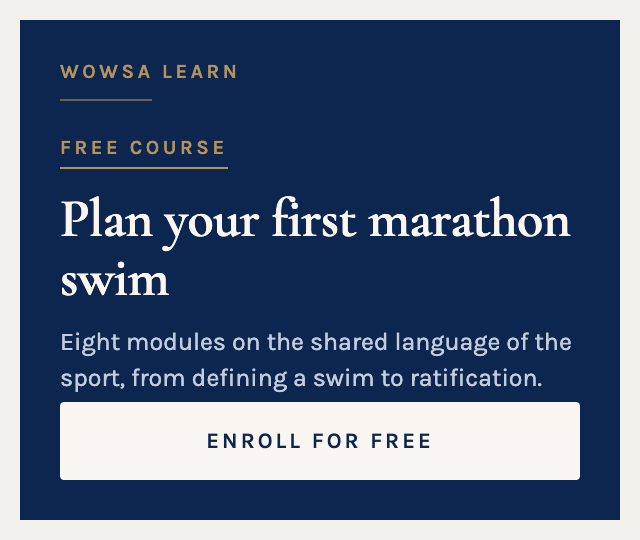
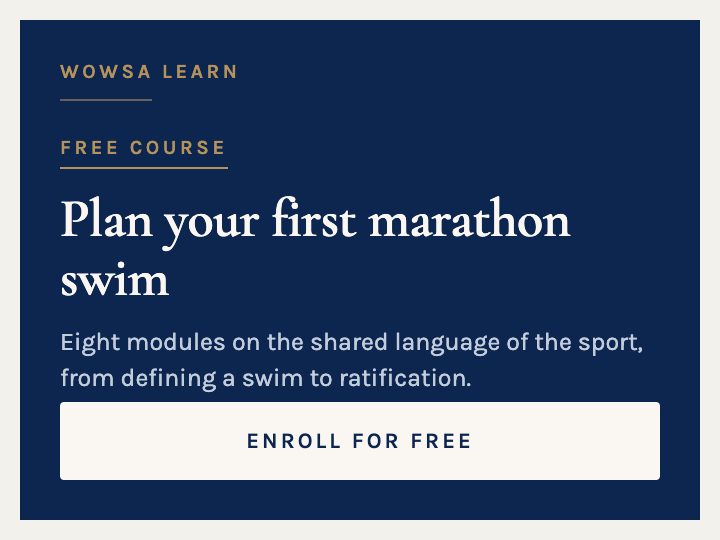
Widen sidebar square units (C, E) to 340px

diff --git a/slot-e-sidebar-square-alt.html b/slot-e-sidebar-square-alt.html
@@ -1,6 +1,6 @@
 <!--
   WOWSA archive promotion, Slot E: sidebar square, dark treatment.
-  300 x 250. Marathon Swimming, the free foundational course, same offer
+  340 x 250. Marathon Swimming, the free foundational course, same offer
   as Slot D and Slot F. Kept as a separate offer from Slot C on purpose,
   so the sidebar isn't just another Reading Risk unit. Use in place of
   Slot C, not alongside it. See README.md before editing.
@@ -10,7 +10,7 @@
 .wowsa-promo-e *{box-sizing:border-box}
 .wowsa-promo-e .ad{display:flex;flex-direction:column;justify-content:space-between;
   min-height:250px;padding:20px;background:#0C2650;color:#FAF7F2;text-decoration:none;
-  width:300px;max-width:100%}
+  width:340px;max-width:100%}
 .wowsa-promo-e .kick{font-size:10px;letter-spacing:.18em;text-transform:uppercase;font-weight:600;color:#B5925C}
 .wowsa-promo-e .goldrule{height:1px;background:#B5925C;opacity:.55;margin:8px 0 12px;width:46px}
 .wowsa-promo-e .urg{display:inline-block;font-size:10px;font-weight:600;letter-spacing:.18em;

diff --git a/slot-c-sidebar-square.html b/slot-c-sidebar-square.html
@@ -1,6 +1,6 @@
 <!--
   WOWSA archive promotion, Slot C: sidebar square.
-  300 x 250, sits below the banner in the sidebar. Reading Risk, general
+  340 x 250, sits below the banner in the sidebar. Reading Risk, general
   framing for the safety/conditions cluster. See README.md before editing.
 -->
 <style>
@@ -8,7 +8,7 @@
 .wowsa-promo-c *{box-sizing:border-box}
 .wowsa-promo-c .ad{display:flex;flex-direction:column;justify-content:space-between;gap:18px;
   min-height:250px;padding:22px 22px 20px;background:#E4F6F3;border:1px solid #B4E2DC;
-  border-top:3px solid #30D5C8;color:#0C2650;text-decoration:none;width:300px;max-width:100%}
+  border-top:3px solid #30D5C8;color:#0C2650;text-decoration:none;width:340px;max-width:100%}
 .wowsa-promo-c .row{display:flex;gap:14px;align-items:flex-start}
 .wowsa-promo-c .mark{display:block;flex:none;width:56px;aspect-ratio:1;
   background-color:#0C2650;-webkit-mask-repeat:no-repeat;mask-repeat:no-repeat;

diff --git a/README.md b/README.md
@@ -16,9 +16,9 @@ Do not add a price, a checkout link, or a certification claim to any of these un
 |---|---|---|---|---|
 | `slot-a-top-scraper.html` | A | 970 x 120 | Before the article title | `/learn/reading-risk`, coach framing |
 | `slot-b-sidebar-banner.html` | B | 300 x 600 | Sidebar, top | `/learn/reading-risk`, organizer framing |
-| `slot-c-sidebar-square.html` | C | 300 x 250 | Sidebar, below banner | `/learn/reading-risk` |
+| `slot-c-sidebar-square.html` | C | 340 x 250 | Sidebar, below banner | `/learn/reading-risk` |
 | `slot-d-mid-scraper.html` | D | 970 x 120 | Mid-article, roughly halfway through the content | `/learn/courses/marathon-swimming` |
-| `slot-e-sidebar-square-alt.html` | E | 300 x 250 | Sidebar, in place of C | `/learn/courses/marathon-swimming` |
+| `slot-e-sidebar-square-alt.html` | E | 340 x 250 | Sidebar, in place of C | `/learn/courses/marathon-swimming` |
 | `slot-f-bottom-scraper.html` | F | 970 x 120 | After the article body | `/learn/reading-risk` |
 
 A, D and F split the archive audience by how far they read. A shows before anyone starts, coach-framed, navy treatment, and carries the WOWSA mark. D and F share the same cream, no-mark treatment by design, one wide scraper style used twice: D sits mid-article with the Marathon Swimming course, F runs after the article body with the general-audience Reading Risk offer.
@@ -98,7 +98,7 @@ Georgia and system sans-serif fallbacks are declared but the primary faces are C
 ## Build notes, from the site audit
 
 - The sidebar already runs `theia-sticky-sidebar`, so slot B and any sidebar unit follow the reader down the article at no extra cost, this is the theme's existing behavior and these files don't need to do anything to get it.
-- The sidebar column is `col-md-4`, roughly 300 to 330px usable, so the 300px-wide units fit without scaling.
+- The sidebar column is `col-md-4`. Slots C and E are set to 340px wide with `max-width:100%`, so they fill the column edge-to-edge rather than sitting at the older 300px IAB standard width.
 - Custom HTML widgets are already in use in this sidebar, confirmed by inspecting a live article, so these files drop into an existing widget slot rather than needing a new one.
 
 ## If something needs to change
